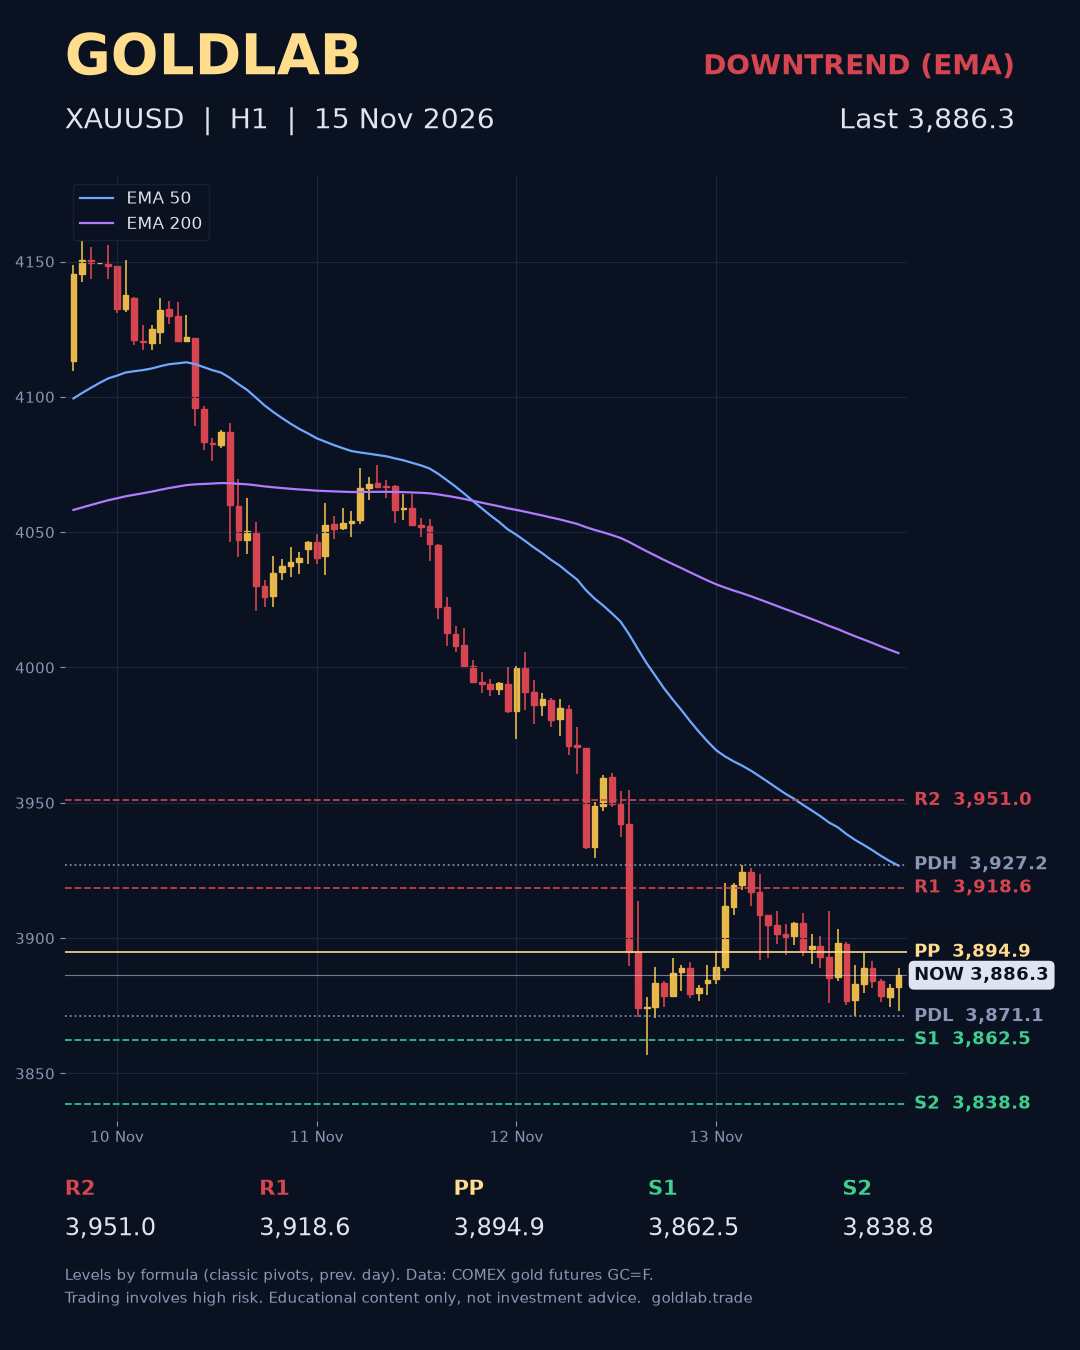
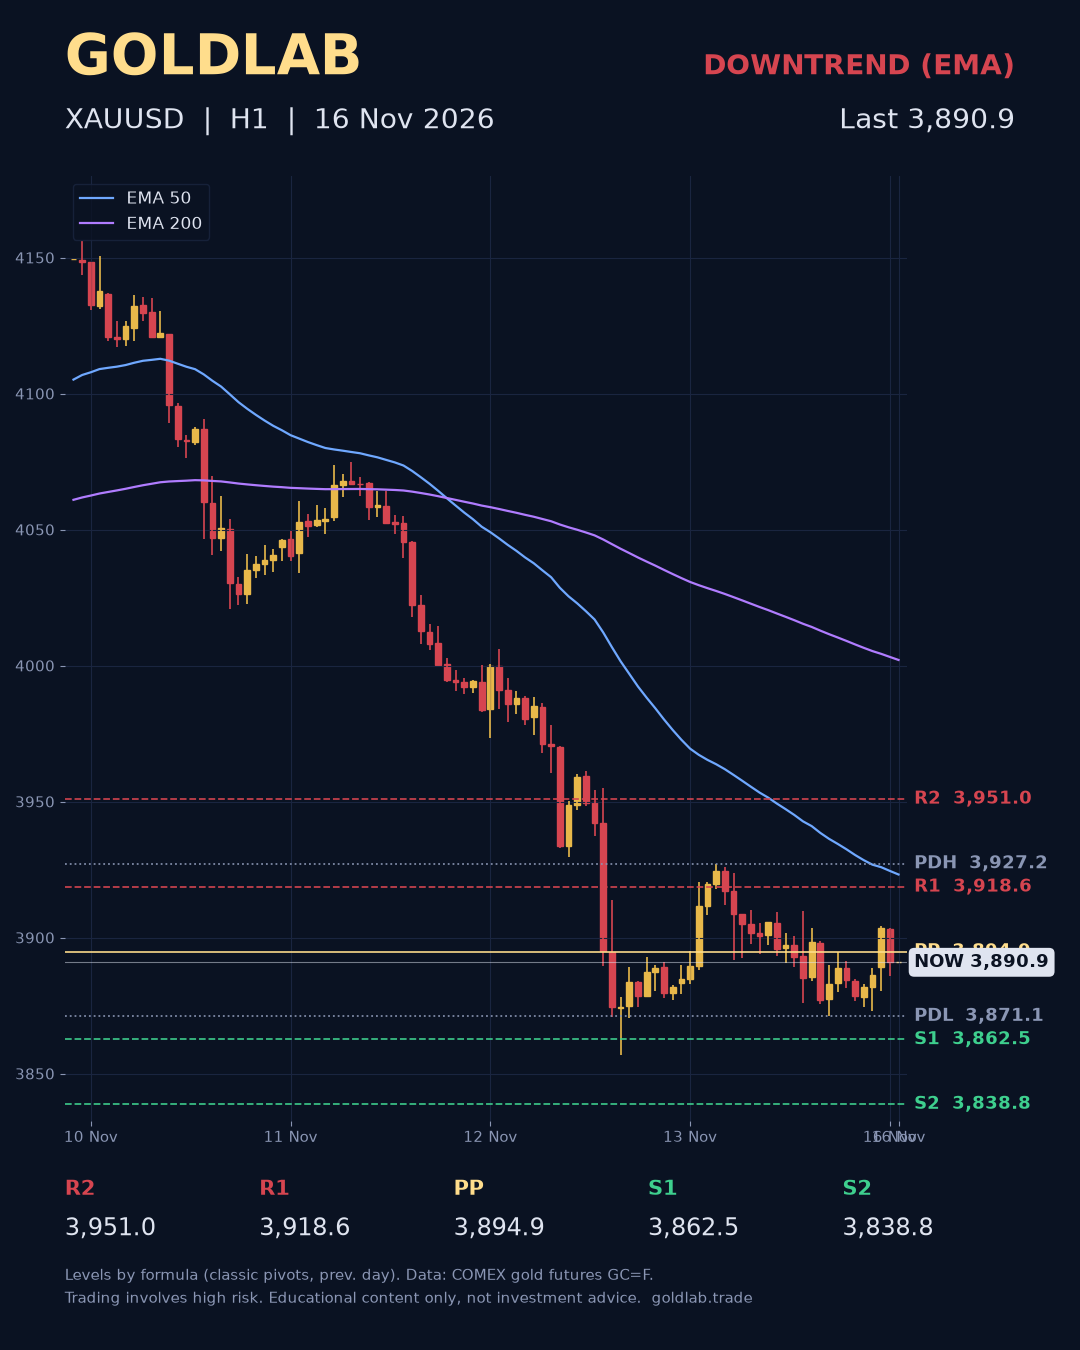
Update gold price 3,890.9 (2026-11-16 00:45 UTC)

diff --git a/th/index.html b/th/index.html
@@ -61,7 +61,7 @@
     </div>
     <figure class="chart-card">
       <img src="../assets/latest.png" alt="กราฟ XAUUSD · H1" width="1080" height="1350">
-      <figcaption class="chart-meta"><span>กราฟ XAUUSD · H1</span><span>อัปเดต <b>2026-11-15 00:45 UTC</b></span></figcaption>
+      <figcaption class="chart-meta"><span>กราฟ XAUUSD · H1</span><span>อัปเดต <b>2026-11-16 00:45 UTC</b></span></figcaption>
     </figure>
   </div>
 </section>
@@ -76,7 +76,7 @@
     <div class="levels">
       <div class="panel">
         <div class="label">ราคาล่าสุด (USD/ออนซ์)</div>
-        <div class="price-big">3,886.3</div>
+        <div class="price-big">3,890.9</div>
         <span class="trend down">ขาลง</span>
         <p class="trend-note">ราคาอยู่ใต้ EMA 50 และ 200 บนกราฟ H1</p>
       </div>

diff --git a/vi/index.html b/vi/index.html
@@ -61,7 +61,7 @@
     </div>
     <figure class="chart-card">
       <img src="../assets/latest.png" alt="Biểu đồ XAUUSD · H1" width="1080" height="1350">
-      <figcaption class="chart-meta"><span>Biểu đồ XAUUSD · H1</span><span>Cập nhật <b>2026-11-15 00:45 UTC</b></span></figcaption>
+      <figcaption class="chart-meta"><span>Biểu đồ XAUUSD · H1</span><span>Cập nhật <b>2026-11-16 00:45 UTC</b></span></figcaption>
     </figure>
   </div>
 </section>
@@ -76,7 +76,7 @@
     <div class="levels">
       <div class="panel">
         <div class="label">Giá gần nhất (USD/oz)</div>
-        <div class="price-big">3,886.3</div>
+        <div class="price-big">3,890.9</div>
         <span class="trend down">Xu hướng giảm</span>
         <p class="trend-note">Giá nằm dưới cả EMA 50 và 200 khung H1.</p>
       </div>

diff --git a/es/index.html b/es/index.html
@@ -61,7 +61,7 @@
     </div>
     <figure class="chart-card">
       <img src="../assets/latest.png" alt="Gráfico XAUUSD · H1" width="1080" height="1350">
-      <figcaption class="chart-meta"><span>Gráfico XAUUSD · H1</span><span>Actualizado <b>2026-11-15 00:45 UTC</b></span></figcaption>
+      <figcaption class="chart-meta"><span>Gráfico XAUUSD · H1</span><span>Actualizado <b>2026-11-16 00:45 UTC</b></span></figcaption>
     </figure>
   </div>
 </section>
@@ -76,7 +76,7 @@
     <div class="levels">
       <div class="panel">
         <div class="label">Último precio (USD/oz)</div>
-        <div class="price-big">3,886.3</div>
+        <div class="price-big">3,890.9</div>
         <span class="trend down">Tendencia bajista</span>
         <p class="trend-note">El precio está por debajo de la EMA 50 y 200 en H1.</p>
       </div>

diff --git a/id/index.html b/id/index.html
@@ -61,7 +61,7 @@
     </div>
     <figure class="chart-card">
       <img src="../assets/latest.png" alt="Grafik XAUUSD · H1" width="1080" height="1350">
-      <figcaption class="chart-meta"><span>Grafik XAUUSD · H1</span><span>Diperbarui <b>2026-11-15 00:45 UTC</b></span></figcaption>
+      <figcaption class="chart-meta"><span>Grafik XAUUSD · H1</span><span>Diperbarui <b>2026-11-16 00:45 UTC</b></span></figcaption>
     </figure>
   </div>
 </section>
@@ -76,7 +76,7 @@
     <div class="levels">
       <div class="panel">
         <div class="label">Harga terakhir (USD/oz)</div>
-        <div class="price-big">3,886.3</div>
+        <div class="price-big">3,890.9</div>
         <span class="trend down">Tren turun</span>
         <p class="trend-note">Harga berada di bawah EMA 50 dan 200 pada H1.</p>
       </div>

diff --git a/index.html b/index.html
@@ -61,7 +61,7 @@
     </div>
     <figure class="chart-card">
       <img src="assets/latest.png" alt="XAUUSD · H1 chart" width="1080" height="1350">
-      <figcaption class="chart-meta"><span>XAUUSD · H1 chart</span><span>Updated <b>2026-11-15 00:45 UTC</b></span></figcaption>
+      <figcaption class="chart-meta"><span>XAUUSD · H1 chart</span><span>Updated <b>2026-11-16 00:45 UTC</b></span></figcaption>
     </figure>
   </div>
 </section>
@@ -76,7 +76,7 @@
     <div class="levels">
       <div class="panel">
         <div class="label">Last price (USD/oz)</div>
-        <div class="price-big">3,886.3</div>
+        <div class="price-big">3,890.9</div>
         <span class="trend down">Downtrend</span>
         <p class="trend-note">Price is below both the 50 and 200 EMA on H1.</p>
       </div>
